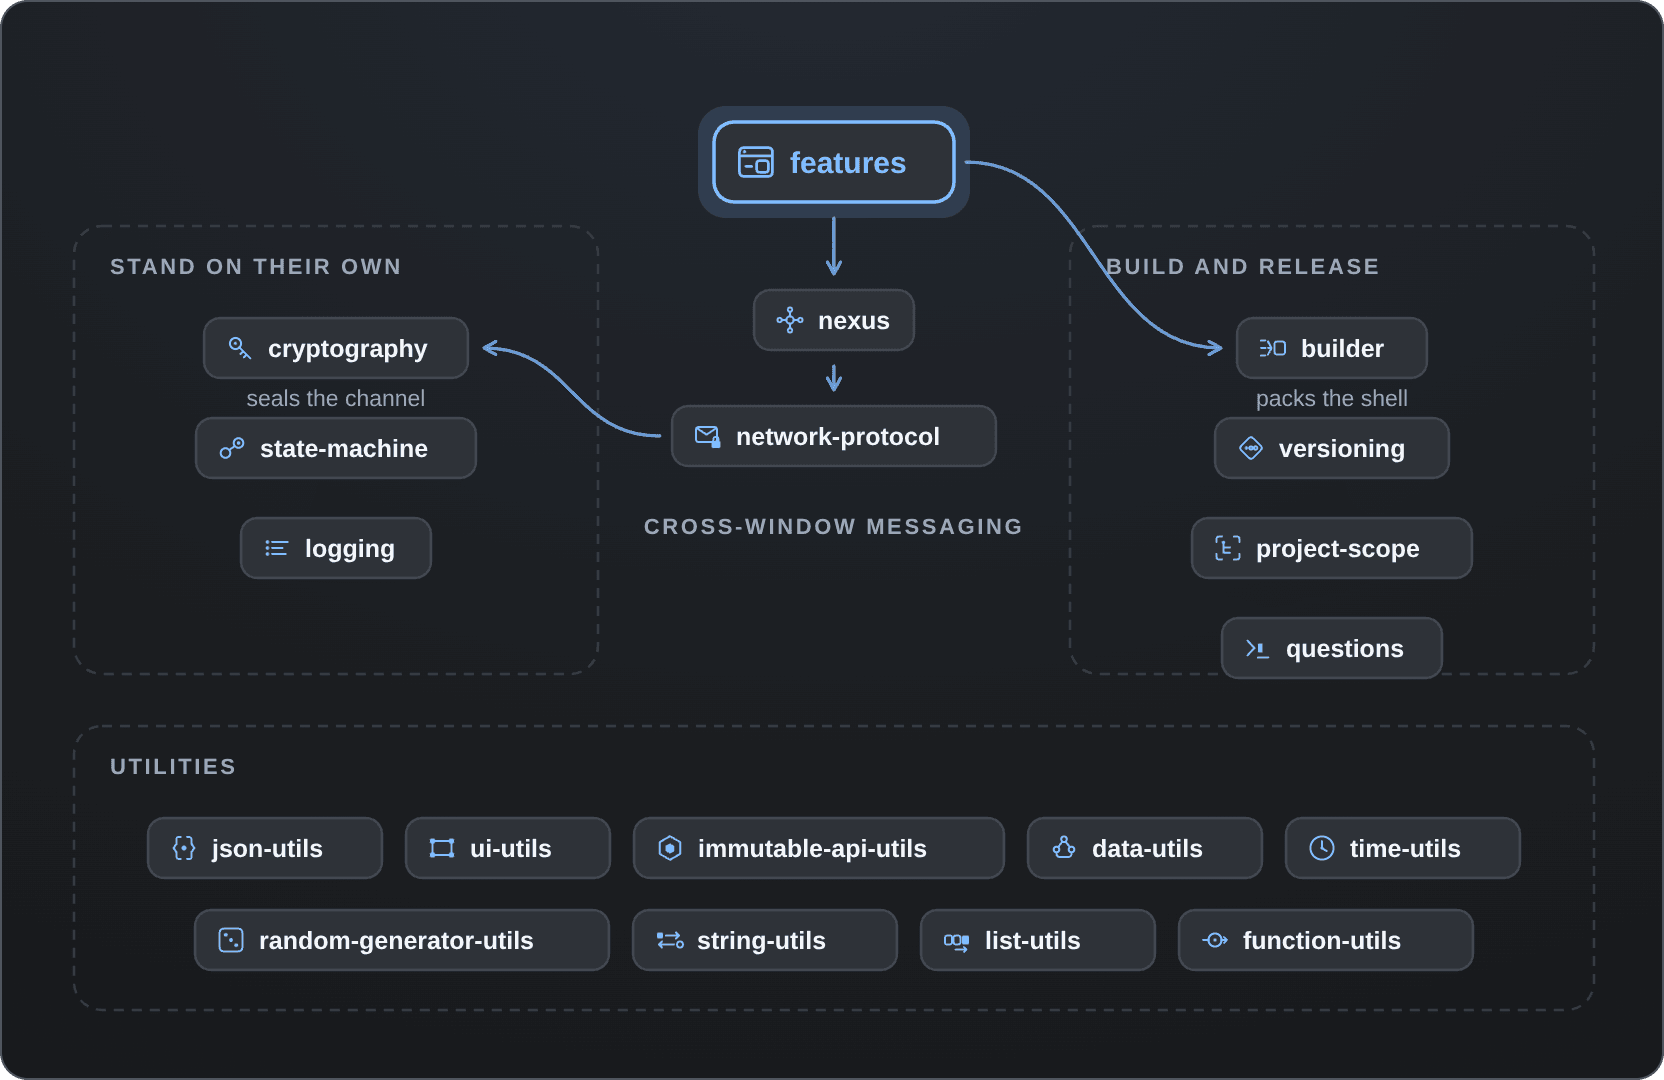
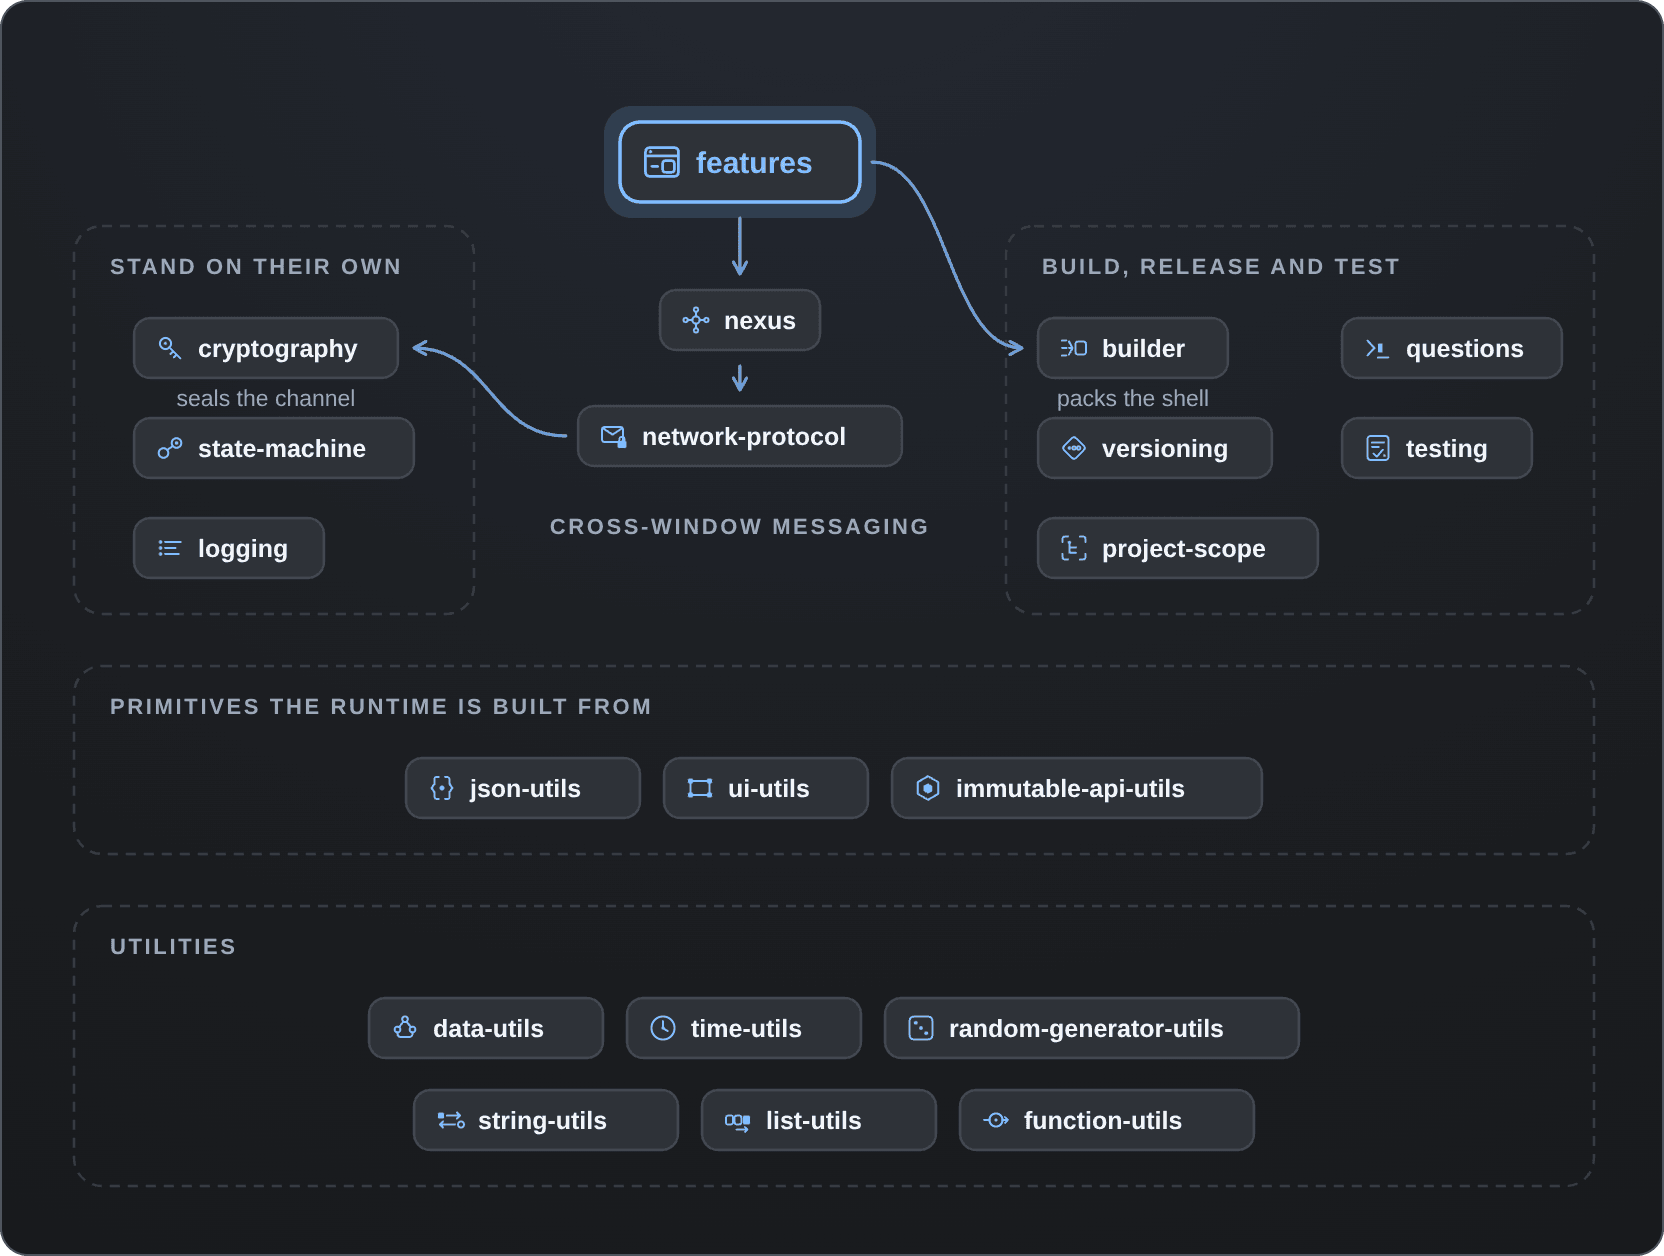
chore(@hyperfrontend/workspace): record the readme ecosystem figure with the testing package

diff --git a/README.md b/README.md
@@ -109,7 +109,7 @@ Start with [Core Concepts](https://www.hyperfrontend.dev/docs/core-concepts), th
 
 <p align="center">
   <a href="https://www.hyperfrontend.dev/docs/libraries/">
-    <img width="832" src="https://github.com/AndrewRedican/hyperfrontend/blob/main/assets/media/readme-ecosystem/figure.png?raw=true" alt="The published packages as a map: features at the top; nexus and network-protocol under it as cross-window messaging, with an arrow from network-protocol to cryptography, which seals the channel; cryptography, state-machine and logging grouped as packages that stand on their own; builder, which packs the shell, versioning, project-scope and questions grouped as build and release tooling; and nine utilities along the foot, from json-utils to function-utils.">
+    <img width="832" src="https://github.com/AndrewRedican/hyperfrontend/blob/main/assets/media/readme-ecosystem/figure.png?raw=true" alt="The published packages as a map: features at the top; nexus and network-protocol under it as cross-window messaging, with an arrow from network-protocol to cryptography, which seals the channel; cryptography, state-machine and logging grouped as packages that stand on their own; builder, which packs the shell, versioning, project-scope, questions and testing grouped as build, release and test tooling; json-utils, ui-utils and immutable-api-utils across the middle as the primitives the runtime is built from; and six utilities along the foot, from data-utils to function-utils.">
   </a>
 </p>
 
